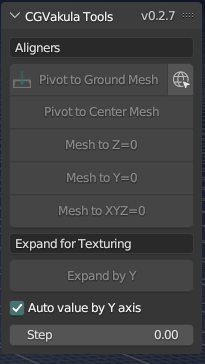
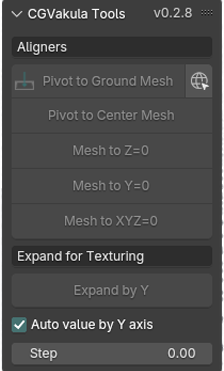
Обновил описание для релиза v0.2.8

diff --git a/README.md b/README.md
@@ -7,7 +7,7 @@
 <center><img src=".github/resources/screen_01.png"></center>
 <br/>
 
-## 💻 Совместим с Blender ✨v2.93 - 4.2✨
+## 💻 Совместим с Blender ✨v2.93 - 4.2.3 LTS✨
 </div>
 <h3 align="center">Функционал</h3>
 
